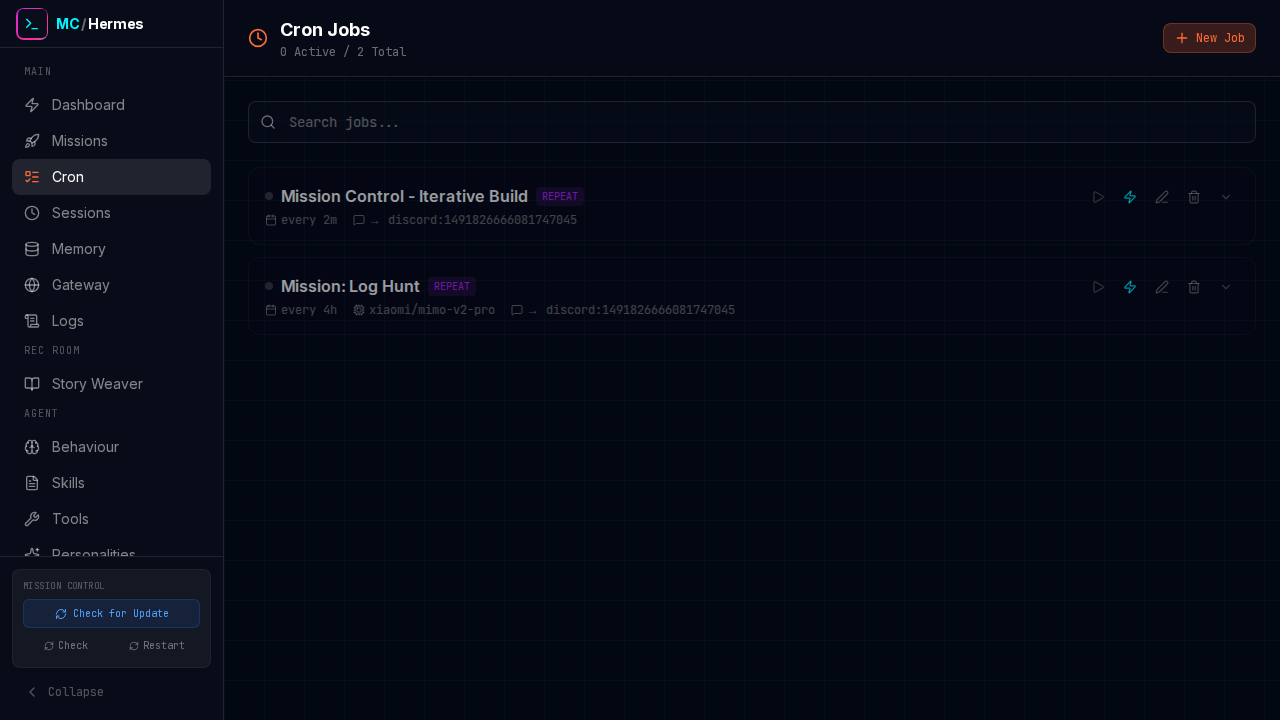
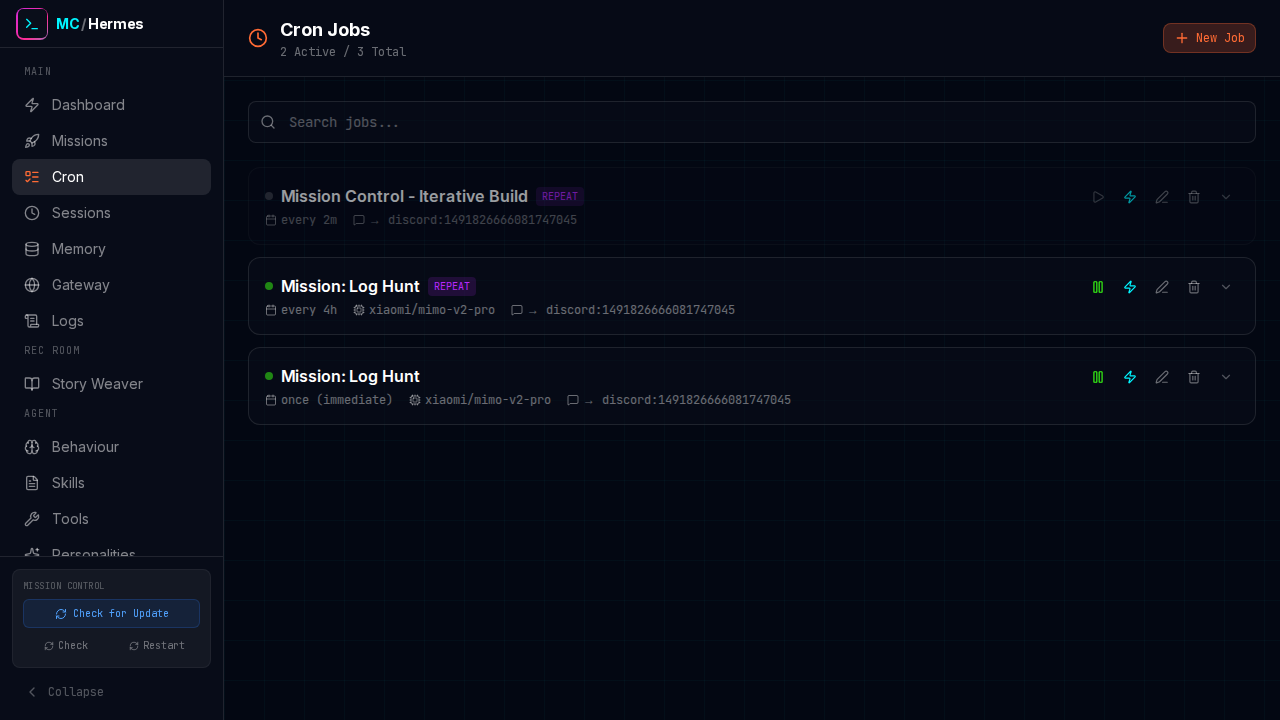
fix: memory date display (createdAt field mismatch) + retake all README screenshots
- Fix MemoryFact type: created_at/updated_at -> createdAt/updatedAt to match API response
- Fix FactCard component to use camelCase field names
- Retake 9 screenshots with current UI while Log Hunt mission was active
- Dashboard hero shot shows active mission dispatch

diff --git a/src/app/memory/page.tsx b/src/app/memory/page.tsx
@@ -100,11 +100,11 @@ function FactCard({
           <HardDrive className="w-3 h-3" />
           ID: {fact.id}
         </span>
-        {fact.created_at && (
-          <span>Created: {new Date(fact.created_at).toLocaleDateString()}</span>
+        {fact.createdAt && (
+          <span>Created: {new Date(fact.createdAt).toLocaleDateString()}</span>
         )}
-        {fact.updated_at && fact.updated_at !== fact.created_at && (
-          <span>Updated: {new Date(fact.updated_at).toLocaleDateString()}</span>
+        {fact.updatedAt && fact.updatedAt !== fact.createdAt && (
+          <span>Updated: {new Date(fact.updatedAt).toLocaleDateString()}</span>
         )}
       </div>
     </div>

diff --git a/src/types/hermes.ts b/src/types/hermes.ts
@@ -73,8 +73,8 @@ export interface MemoryFact {
   category: string;
   tags: string;
   trust: number;
-  created_at: string;
-  updated_at: string;
+  createdAt: string;
+  updatedAt: string;
 }
 
 export interface MemoryData {
